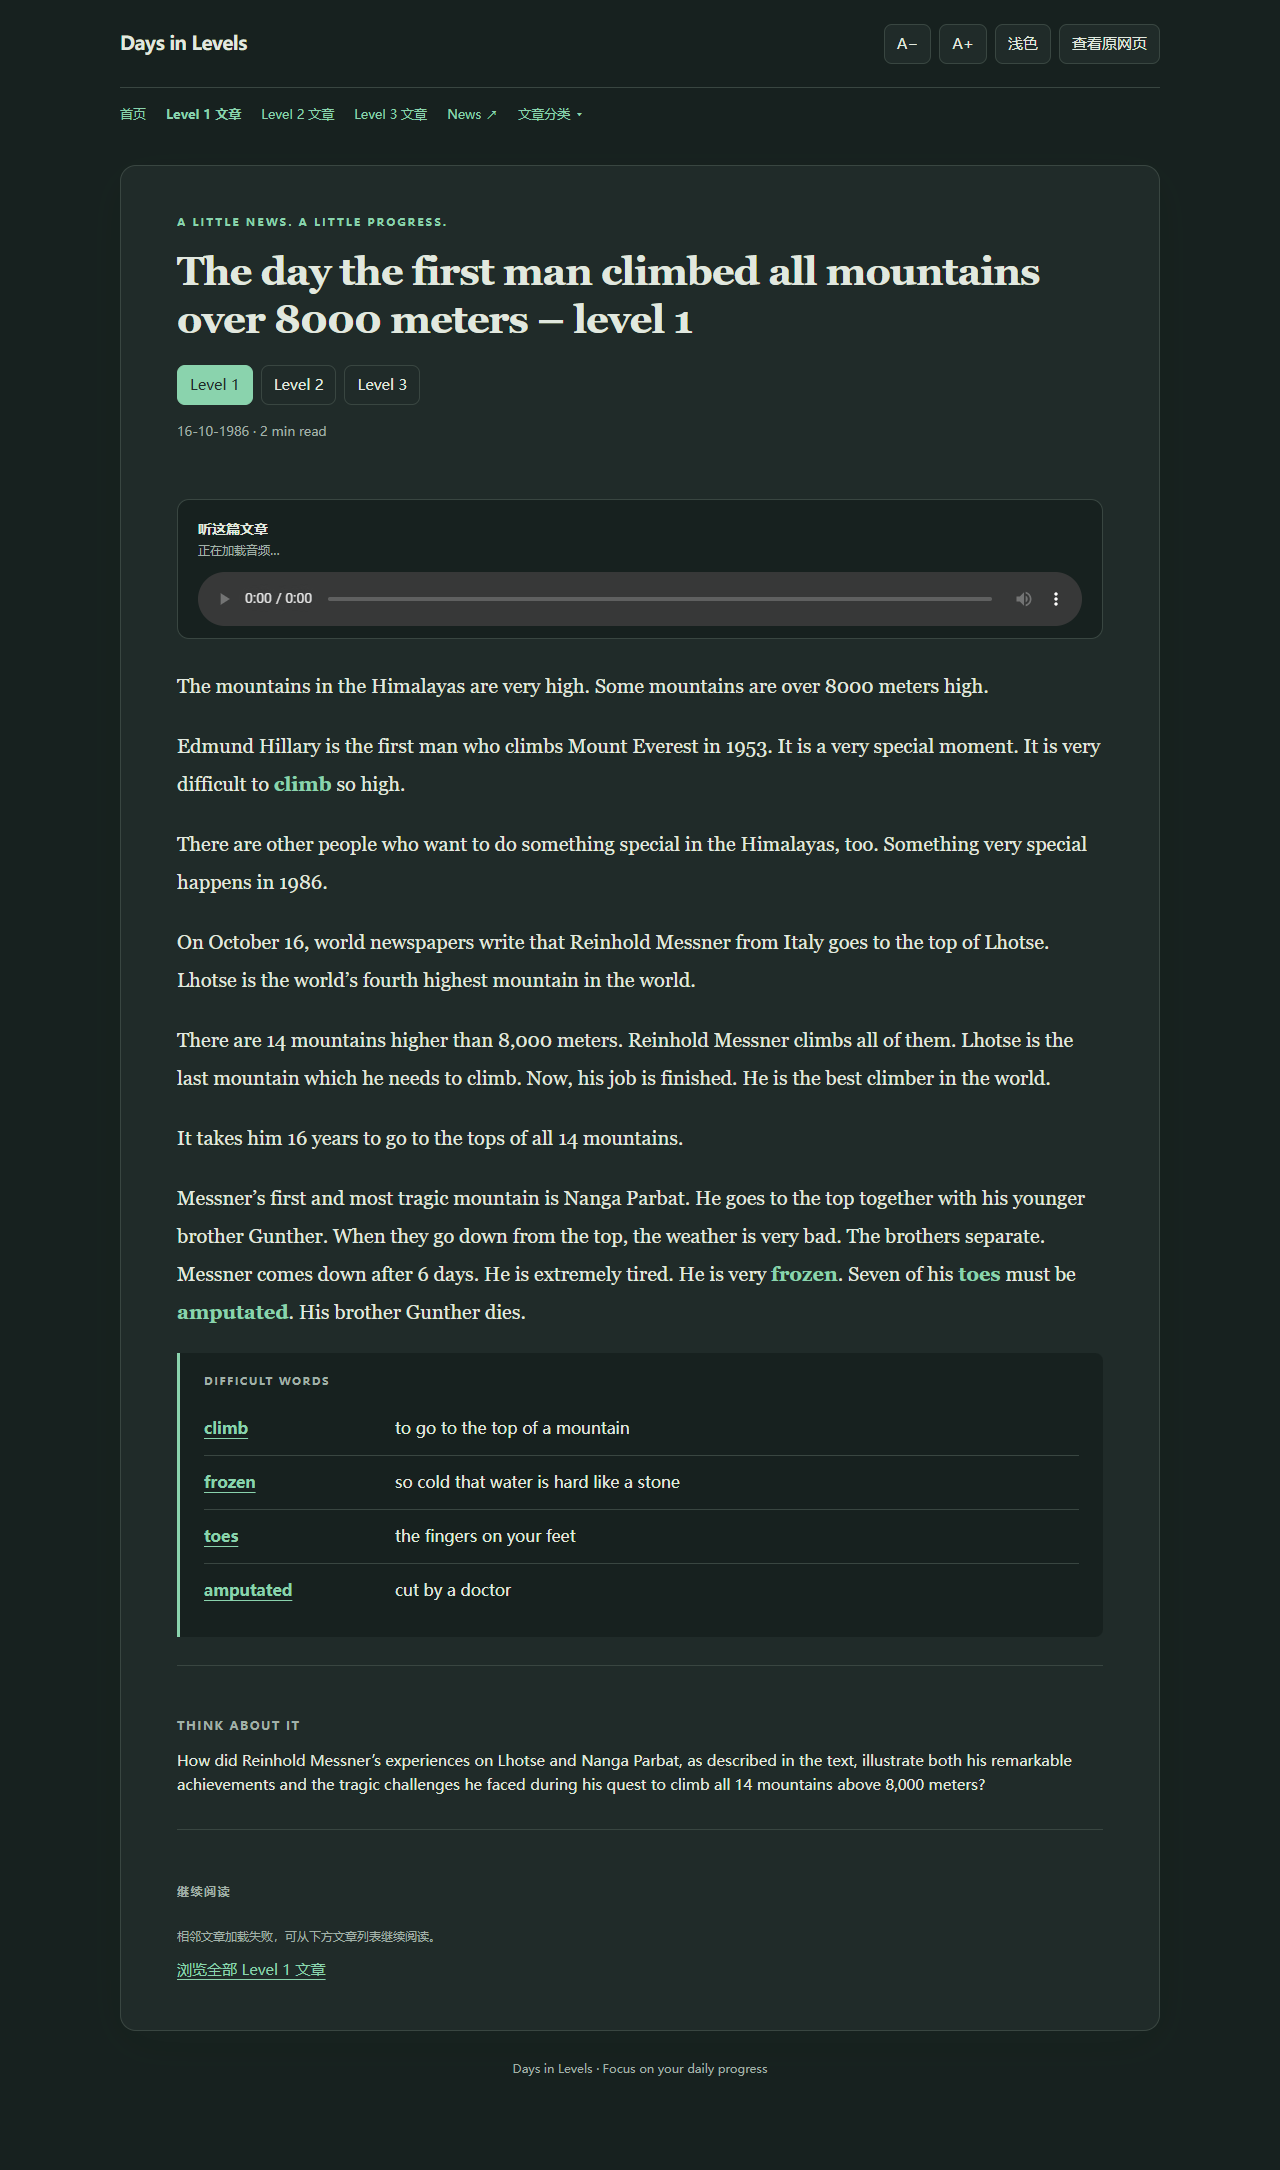
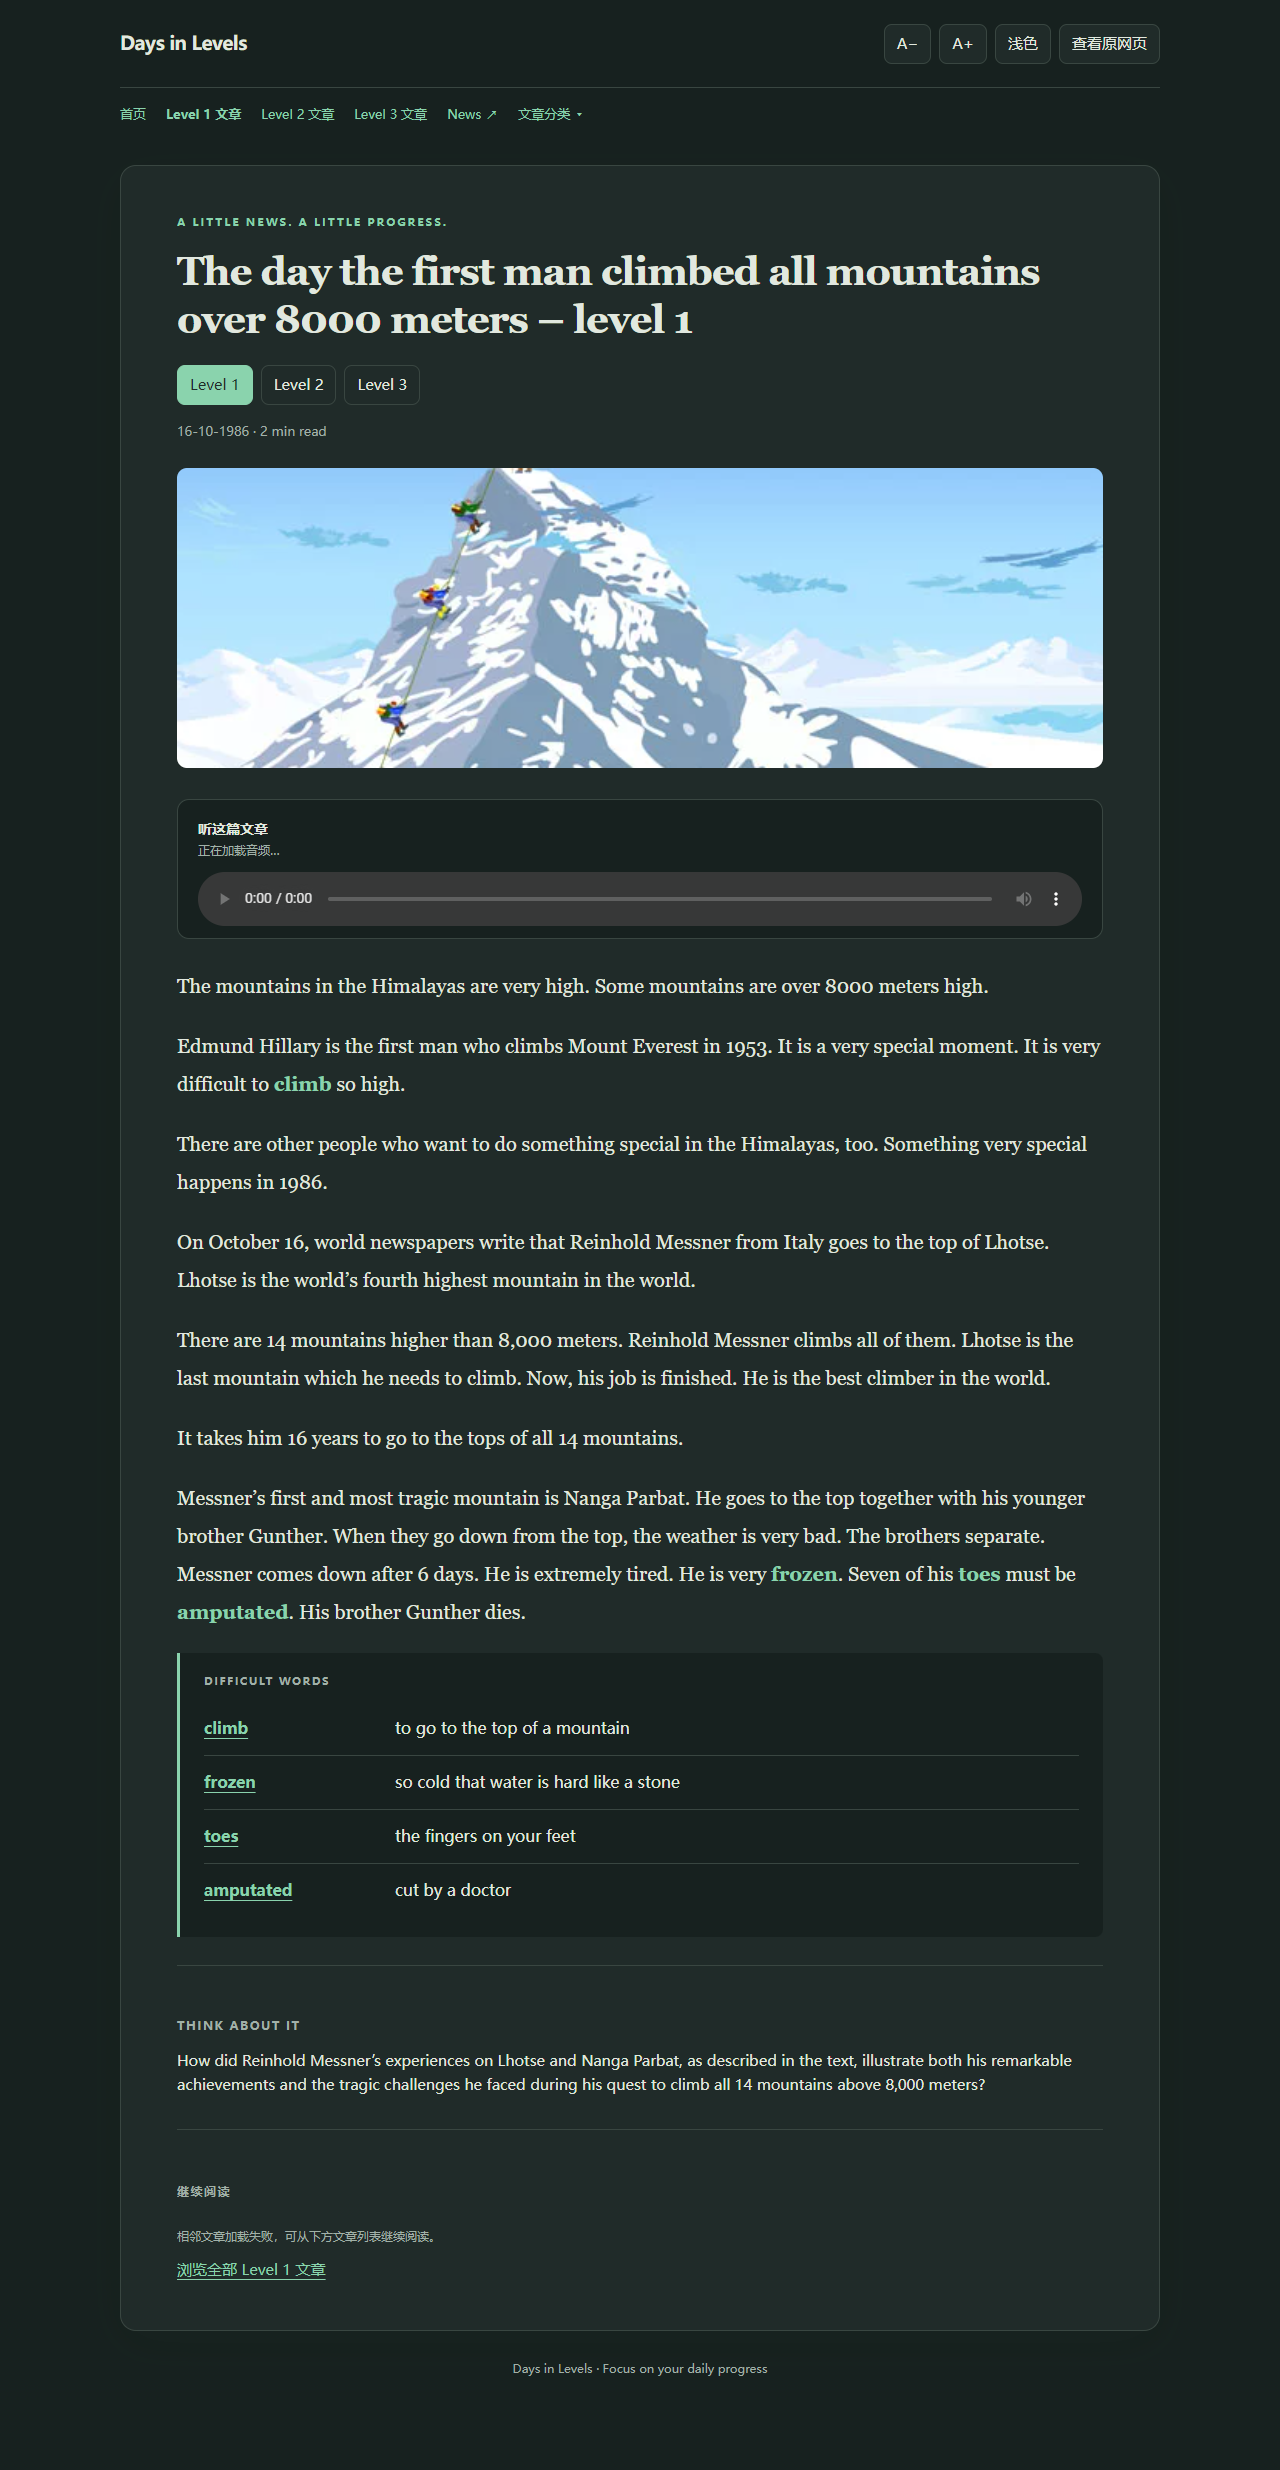
feat:update README

diff --git a/README.md b/README.md
@@ -24,7 +24,7 @@ Chrome Manifest V3 扩展，纯原生 JavaScript，**无需构建，解压即可
 
 ![Days in Levels 桌面文章阅读界面](preview-days-article.png)
 
-> 以上为离线测试环境截图，远程图片和音频未联网加载；实际使用时由原站提供这些资源。
+> 预览使用真实文章图片与页面 HTML 样本生成，音频不自动播放。
 
 ## 主要功能
 
@@ -103,3 +103,5 @@ node tests/reader.cjs
 | `playback-rate.cjs` | 延迟创建的音频、速度偏好、播放器重置、媒体替换、音调保持和恢复正常速度 |
 
 测试使用真实页面 HTML 样本，并模拟第三方播放器和网络响应；不验证实际联网播放。分类与分页的部分路由复用列表样本。若原站更新页面结构或播放器实现，需要同步更新适配与测试。
+
+桌面预览通过 `node tests/previews.cjs` 单独生成，需要联网读取原站图片。脚本会检查图片是否成功加载，再保存截图；离线功能测试不会覆盖 README 预览图。
